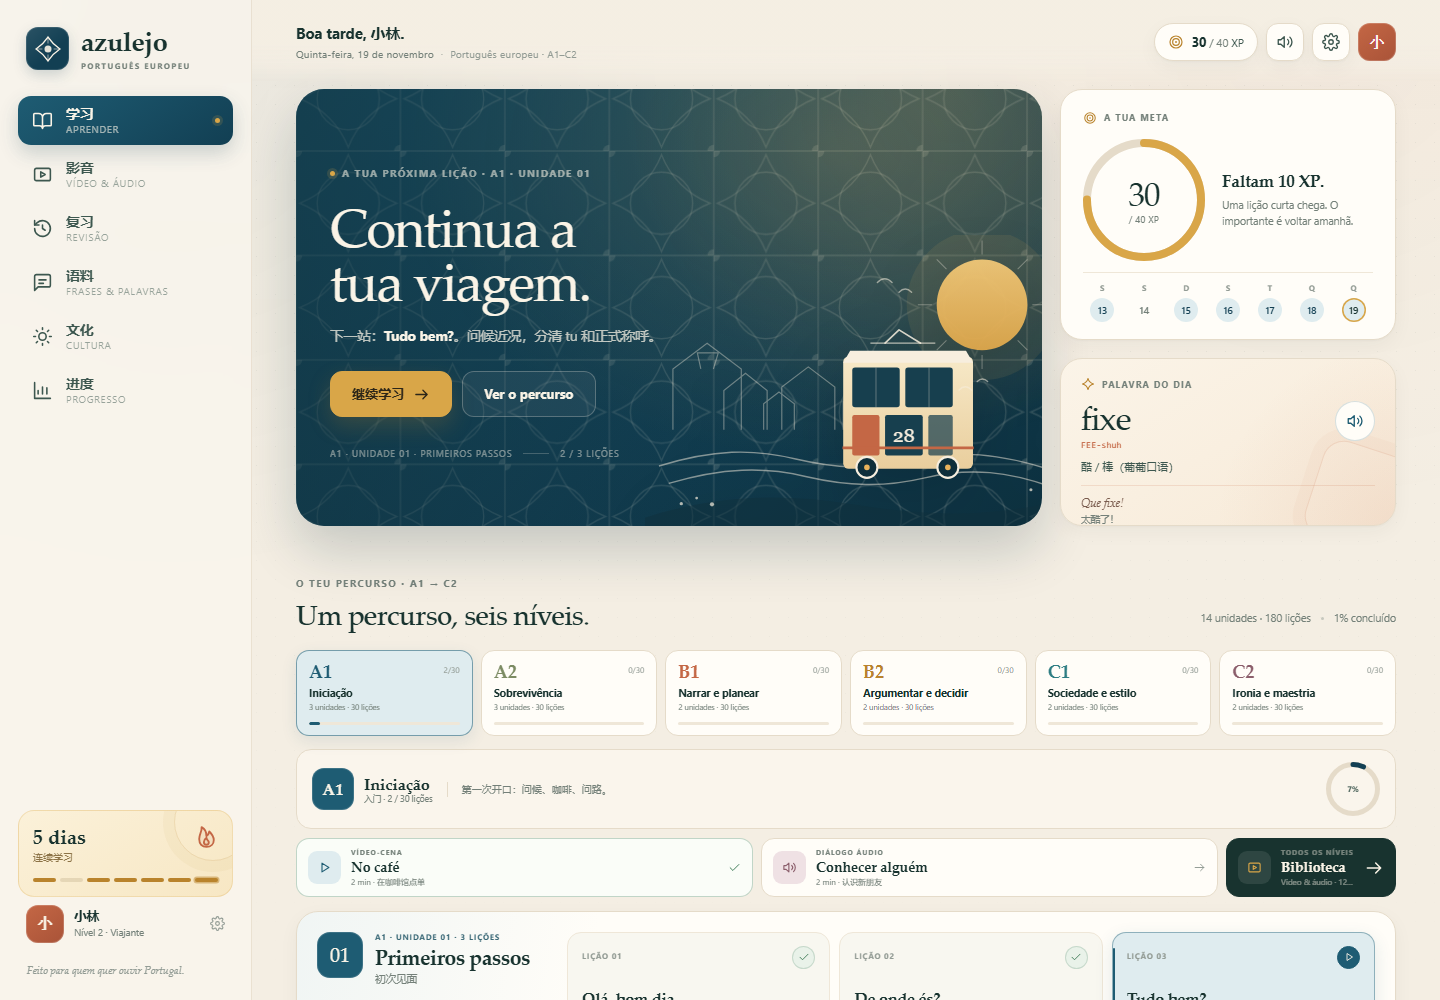
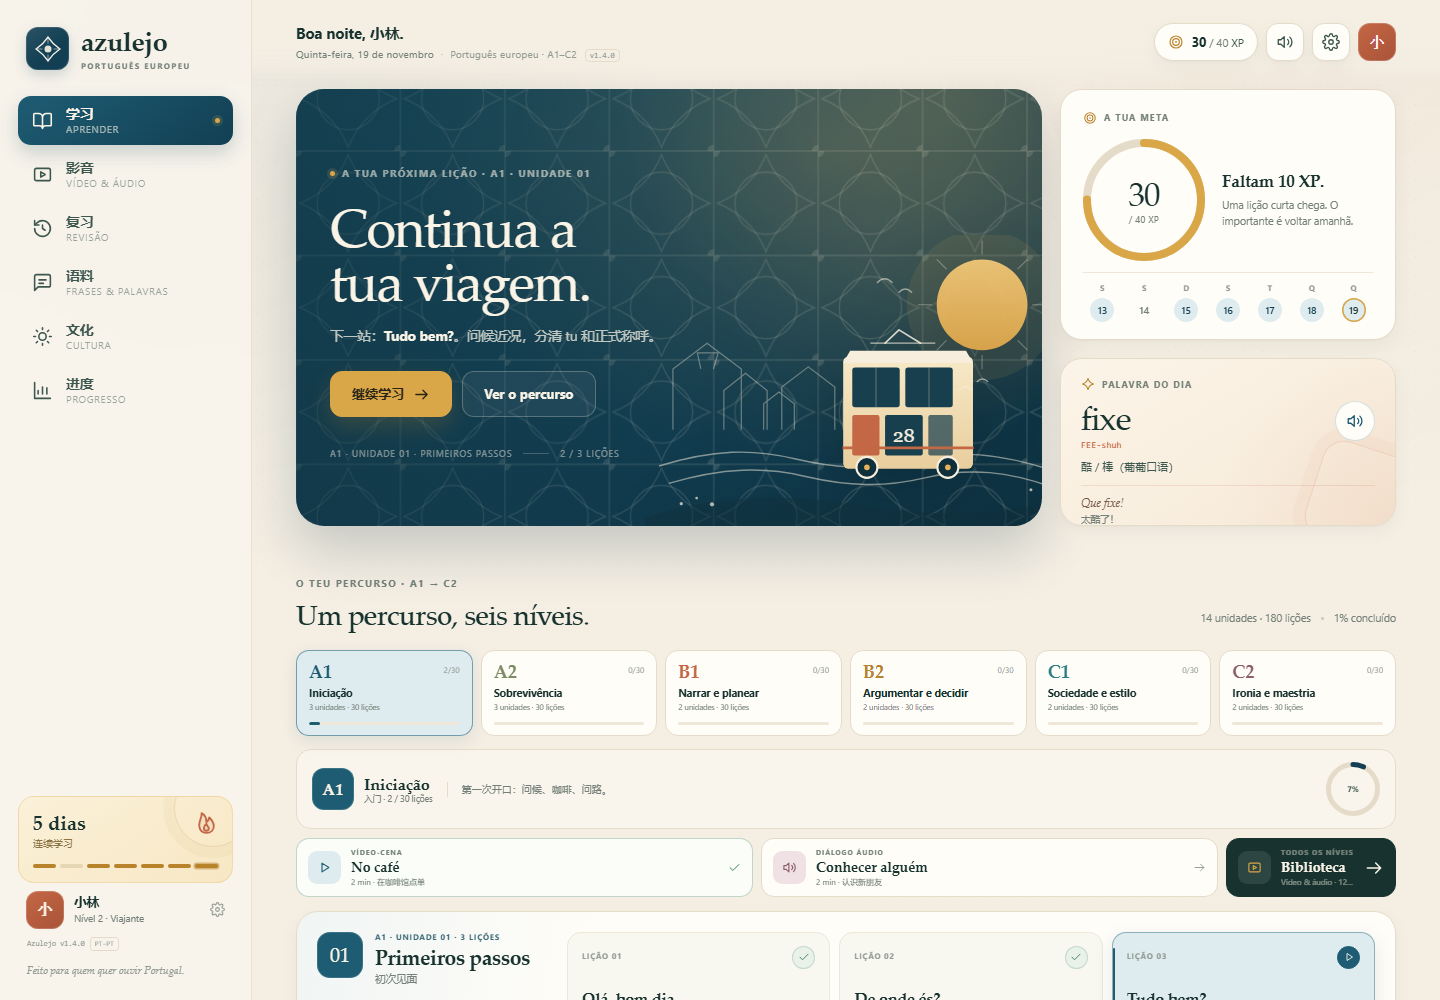
Show app version and notify on updates

Changed region(s): [[0.0, 0.775, 0.1562, 0.961], [0.2188, 0.031, 0.2812, 0.062]]

diff --git a/js/app.js b/js/app.js
@@ -9,6 +9,8 @@
   const LEXICON = window.AZ_LEXICON || {};
   const RESOURCES = window.AZ_RESOURCES || [];
   const STORAGE_KEY = 'azulejo.state.v1';
+  const VERSION_KEY = 'azulejo.version.seen';
+  const APP_VERSION = '1.4.0';
   const XP_PER_LEVEL = 120;
   const LEVEL_TITLES = ['Curioso', 'Viajante', 'Conversador', 'Lisboeta', 'Contador de histórias', 'Alma portuguesa'];
 
@@ -592,7 +594,8 @@
           <small>Nível ${lvl.n} · ${lvl.title}</small>
         </span>
         ${icon('settings', 'profile-cog')}
-      </button>`;
+      </button>
+        <p class="sidebar-version">Azulejo v${APP_VERSION} <span>PT-PT</span></p>`;
   }
 
   function renderTopbar() {
@@ -604,7 +607,7 @@
     top.innerHTML = `
       <div class="topbar-left">
         <p class="topbar-hello">${greeting()}${state.name ? `, ${esc(state.name)}` : ''}.</p>
-        <p class="topbar-date">${prettyDate()} <span class="topbar-sep">·</span> <span class="topbar-meta">Português europeu · A1–C2</span></p>
+        <p class="topbar-date">${prettyDate()} <span class="topbar-sep">·</span> <span class="topbar-meta">Português europeu · A1–C2</span> <span class="topbar-version">v${APP_VERSION}</span></p>
       </div>
       <div class="topbar-right">
         <a class="goal-pill ${done ? 'is-complete' : ''}" href="#/progress" aria-label="今日目标 ${xp} / ${goal} XP">
@@ -2916,7 +2919,7 @@
           </div>
         </div>
       </form>
-      <p class="settings-version">Azulejo · português europeu · versão 1.0<br>${lvl.n > 1 ? `Nível ${lvl.n} · ${lvl.title} · ` : ''}${state.xp} XP</p>
+      <p class="settings-version">Azulejo · português europeu · versão ${APP_VERSION}<br>${lvl.n > 1 ? `Nível ${lvl.n} · ${lvl.title} · ` : ''}${state.xp} XP</p>
     </div>`, { className: 'settings-panel', label: 'Definições' });
     const rate = $('#settings-rate');
     if (rate) rate.addEventListener('input', () => {
@@ -2983,11 +2986,29 @@
     }, 350);
   }
 
+  function markVersionSeen() {
+    try { localStorage.setItem(VERSION_KEY, APP_VERSION); } catch (err) { /* storage may be unavailable */ }
+  }
+
+  function maybeShowVersionNotice() {
+    let seen = null;
+    try { seen = localStorage.getItem(VERSION_KEY); } catch (err) { /* storage may be unavailable */ }
+    if (!seen) {
+      markVersionSeen();
+      if (state.onboarded) setTimeout(() => showToast(`Azulejo v${APP_VERSION} · versão atual`, 'success'), 900);
+      return;
+    }
+    if (seen === APP_VERSION) return;
+    markVersionSeen();
+    setTimeout(() => showToast(`Azulejo atualizado para v${APP_VERSION}`, 'success'), 900);
+  }
+
   function completeOnboarding(name, goal) {
     state.onboarded = true;
     state.name = String(name || '').trim().slice(0, 24);
     state.goal = Number(goal) || 40;
     saveState();
+    markVersionSeen();
     closeModal(true);
     document.body.classList.remove('onboarding-open');
     refreshChrome();
@@ -3472,6 +3493,7 @@
 
   function boot() {
     Speech.init();
+    document.body.dataset.version = APP_VERSION;
     const next = nextLesson();
     ui.courseLevel = next ? next.unit.level : 'A1';
     const nextMedia = DATA.media.find(item => !state.media[item.id]);
@@ -3483,6 +3505,8 @@
     router();
     if (!state.onboarded) {
       setTimeout(openOnboarding, 300);
+    } else {
+      maybeShowVersionNotice();
     }
     if ('serviceWorker' in navigator && /^https?:$/.test(location.protocol)) {
       navigator.serviceWorker.register('./sw.js').catch(() => {});

diff --git a/css/styles.css b/css/styles.css
@@ -366,6 +366,9 @@ img, svg { display: block; }
   line-height: 1.45;
 }
 
+.sidebar-version { display: flex; align-items: center; gap: 5px; padding: 0 9px; font-family: var(--font-mono); font-size: 7.5px; color: var(--muted-2); }
+.sidebar-version span { padding: 1px 4px; border: 1px solid var(--line); border-radius: 3px; font-size: 6.5px; letter-spacing: .04em; }
+
 .main { min-width: 0; display: flex; flex-direction: column; min-height: 100vh; }
 
 .topbar {
@@ -388,6 +391,7 @@ img, svg { display: block; }
 
 .topbar-sep { margin: 0 4px; opacity: .5; }
 .topbar-meta { color: var(--muted-2); }
+.topbar-version { margin-left: 5px; padding: 1px 4px; border: 1px solid var(--line); border-radius: 4px; font-family: var(--font-mono); font-size: 7.5px; color: var(--muted-2); letter-spacing: 0; }
 
 .topbar-right { display: flex; align-items: center; gap: 8px; }
 
@@ -3116,7 +3120,7 @@ input[type="range"] { width: 100%; accent-color: var(--blue); }
   :root { --sidebar-width: 86px; }
   .sidebar { padding: 25px 11px 18px; align-items: center; gap: 22px; }
   .brand { padding: 0; }
-  .brand-copy, .nav-copy, .nav-dot, .sidebar-note, .profile-copy, .profile-cog, .streak-card { display: none; }
+  .brand-copy, .nav-copy, .nav-dot, .sidebar-note, .profile-copy, .profile-cog, .streak-card, .sidebar-version { display: none; }
   .nav { width: 100%; align-items: center; }
   .nav-item { width: 54px; min-height: 50px; padding: 0; justify-content: center; }
   .nav-icon .icon { width: 22px; height: 22px; }

diff --git a/index.html b/index.html
@@ -4,6 +4,7 @@
   <meta charset="utf-8">
   <meta name="viewport" content="width=device-width, initial-scale=1, viewport-fit=cover">
   <meta name="theme-color" content="#123f53">
+  <meta name="app-version" content="1.4.0">
   <meta name="description" content="Azulejo — 从 A1 到 C2 的欧洲葡萄牙语（pt-PT）学习应用：每级 30 节课，共 180 节；12 个情景视频与音频对话、210 个中英葡法西五语词汇、间隔复习与文化阅读。">
   <title>Azulejo · Aprender português europeu</title>
   <link rel="manifest" href="manifest.webmanifest">

diff --git a/sw.js b/sw.js
@@ -1,5 +1,5 @@
 /* Azulejo service worker — offline-first after the first visit. */
-const CACHE = 'azulejo-v1.3.0';
+const CACHE = 'azulejo-v1.4.0';
 const CORE = [
   './',
   './index.html',

diff --git a/README.md b/README.md
@@ -84,6 +84,16 @@ Node.js 仅用于启动静态服务器，应用本身没有构建步骤、没有
 
 在「语料 → 词汇」中可以按语言搜索，例如输入 `heteronym`、`inquiétude`、`异名者`，都会定位到同一个词。
 
+## 版本号与更新提示
+
+当前版本：**v1.4.0**。
+
+- 顶栏、侧栏底部和「设置」里都会显示当前版本号。
+- 当本地记录的版本号与 `APP_VERSION` 不一致时，打开应用会弹出 `Azulejo atualizado para vX.Y.Z` 提示。
+- 更新版本时需要同时修改：`js/app.js` 的 `APP_VERSION`、`sw.js` 的 `CACHE`、`manifest.webmanifest` 的 `version`，并在 [CHANGELOG.md](CHANGELOG.md) 记录。
+
+![版本更新提示](screenshots/version-update.png)
+
 ## 进度与数据
 
 所有进度保存在浏览器 `localStorage` 的 `azulejo.state.v1` 中，不上传服务器，也不需要账号。包括课程完成度、XP、连续学习、复习间隔、影音完成记录和收藏。
@@ -106,6 +116,7 @@ azulejo/
 ├─ js/app.js               # 路由、课程、SRS、影音引擎、进度、设置
 ├─ assets/                 # 应用图标
 ├─ manifest.webmanifest    # PWA 清单
+├─ CHANGELOG.md            # 版本记录
 ├─ sw.js                   # 离线缓存
 ├─ server.js               # 零依赖静态服务器
 ├─ tools/qa.mjs            # Chrome CDP 自动化走查（开发用）

diff --git a/CHANGELOG.md b/CHANGELOG.md
@@ -1,0 +1,29 @@
+# Changelog
+
+## 1.4.0 — 2026-11-19
+
+- Added a PT-PT-only external resources section: Falar, Fala Bem, PTptIndex, EP Spoken Frequency and Conversas com Amália.
+- Excluded Brazilian Portuguese resources; added a visible PT-PT-only notice.
+- Added a persistent version badge in the top bar, sidebar and settings.
+- Added a “new version” toast when the stored version changes.
+- Bumped the service worker cache to `azulejo-v1.4.0`.
+
+## 1.3.0 — 2026-11-19
+
+- Added a dedicated resource page entry point and culture integration.
+- Service worker cache: `azulejo-v1.3.0`.
+
+## 1.2.0 — 2026-11-19
+
+- Expanded each CEFR level to 30 lessons: 180 lessons total (42 core + 138 practice labs).
+- Added 14 units, 210 five-language words and deterministic practice labs.
+- Service worker cache: `azulejo-v1.2.0`.
+
+## 1.1.0 — 2026-11-19
+
+- Added A1–C2 structure, 12 video/audio media lessons and 150 five-language words.
+- Service worker cache: `azulejo-v1.1.0`.
+
+## 1.0.0 — 2026-11-19
+
+- Initial release: A1–A2 course, SRS review, phrasebook, culture library and progress system.
